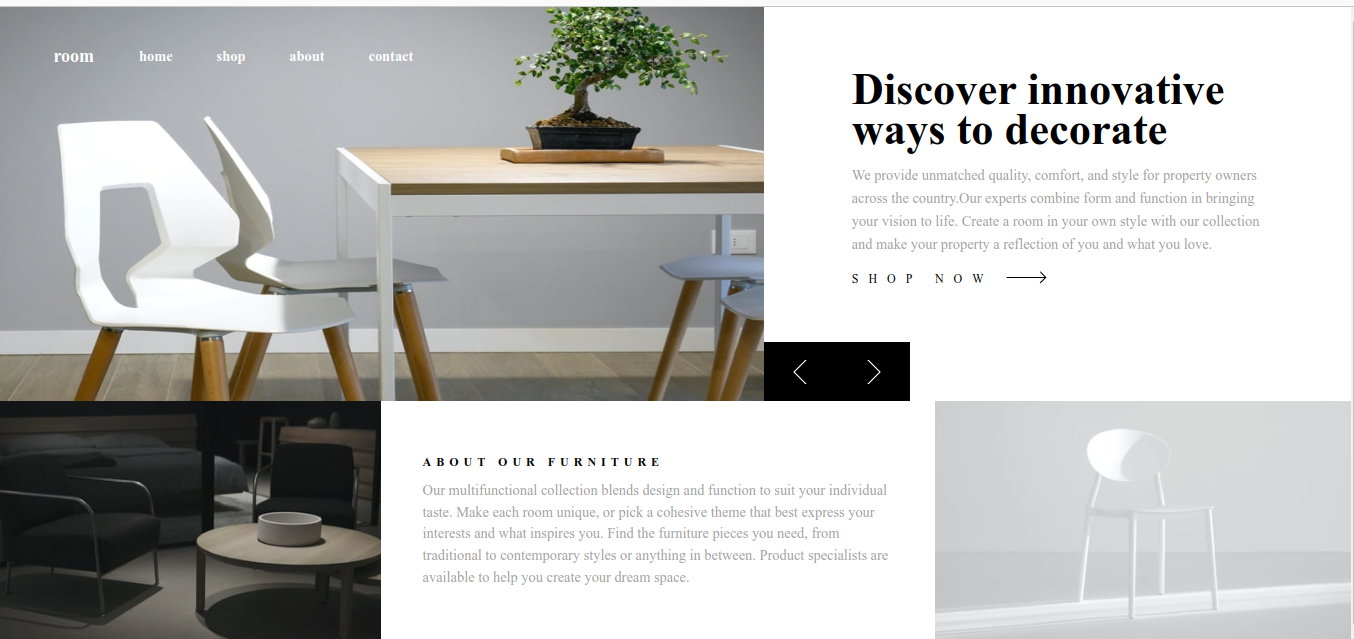
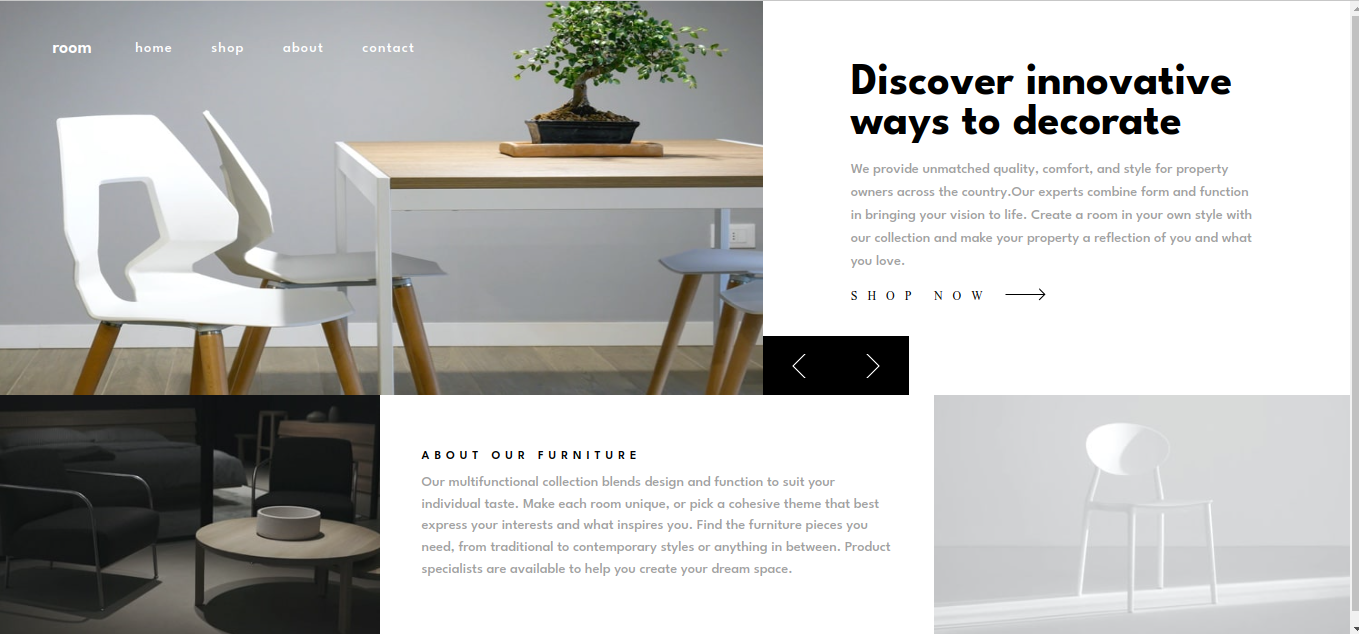
added fonts to some texts

diff --git a/style.css b/style.css
@@ -1,10 +1,3 @@
-/*
-
-- Family: [League Spartan](https://fonts.google.com/specimen/League+Spartan)
-- Weights: 500, 600, 700
-
-*/
-
 :root{
     font-size: 12px;
 }
@@ -44,6 +37,8 @@ nav{
 }
 nav h2{
     flex: 1;
+    font-family: 'League Spartan', sans-serif;
+    font-weight: 600;
     color: white;
 }
 
@@ -76,7 +71,9 @@ nav h2{
 ul li >a{
     text-decoration: none;
     color: white;
-    font-weight: bold;
+    font-family: 'League Spartan', sans-serif;
+    font-weight: 500;
+    letter-spacing: 1.2px;
     font-size: 1.2rem;
 }
 
@@ -103,19 +100,23 @@ ul li >a{
 }
 .text1 h1{
     font-size: 3.7rem;
-    font-weight: bold;
+    font-weight: 700;
     line-height: 0.9;
+    font-family: 'League Spartan', sans-serif;
     color: hsl(0, 0%, 0%);
 }
 
 .text1 .descript{
     margin:1em 0% 1em 0%;
     font-size: 1.2rem;
+    font-family: 'League Spartan', sans-serif;
+    font-weight: 500;
     line-height: 1.6;
     color: hsl(0, 0%, 63%);
 }
 .shop-now{
     font-size: 1rem;
+    font-family: 'League Spartan', sans-serif;
     letter-spacing: 10px;
     color: hsl(0, 0%, 0%);
     transition: color 500ms ease-in-out;
@@ -186,6 +187,8 @@ section{
 
 .about-text h4{
     font-size: 1rem;
+    font-family: 'League Spartan', sans-serif;
+    font-weight: 600;
     letter-spacing: 5px;
     text-transform: uppercase;
     color: hsl(0, 0%, 0%);
@@ -193,6 +196,8 @@ section{
 .about-text p{
     margin-top: 10px;
     font-size: 1.2rem;
+    font-family: 'League Spartan', sans-serif;
+    font-weight: 500;
     line-height: 1.5;
     color: hsl(0, 0%, 63%);
 }

diff --git a/index.html b/index.html
@@ -7,6 +7,10 @@
   <link rel="icon" type="image/png" sizes="32x32" href="./images/favicon-32x32.png">
   
   <title>Frontend Mentor | Room homepage</title>
+  <link rel="preconnect" href="https://fonts.googleapis.com">
+  <link rel="preconnect" href="https://fonts.gstatic.com" crossorigin>
+  <link href="https://fonts.googleapis.com/css2?family=League+Spartan:wght@500;600;700&display=swap"
+    rel="stylesheet">
   <link rel="stylesheet" href="style.css">
 
 </head>
